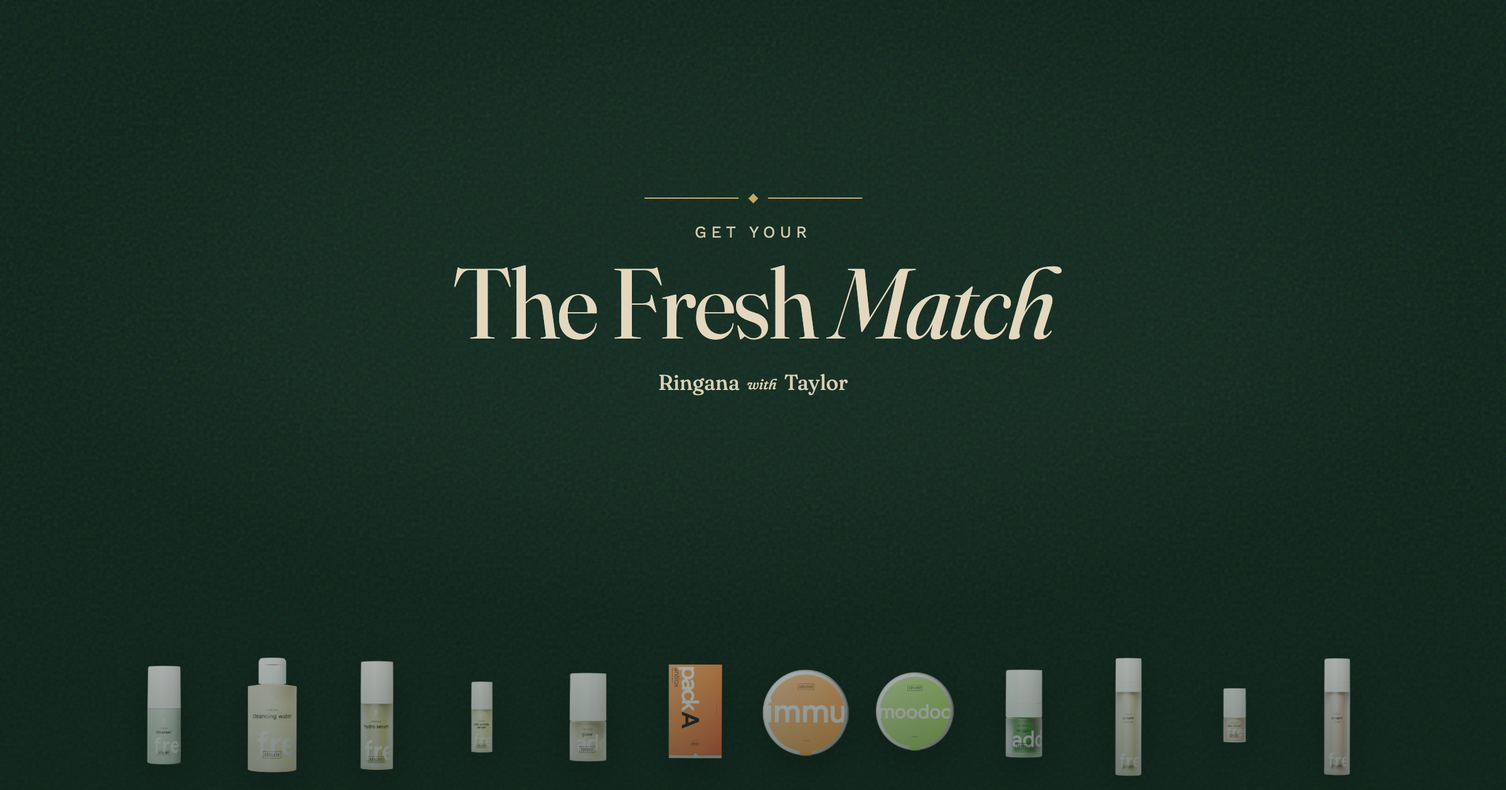
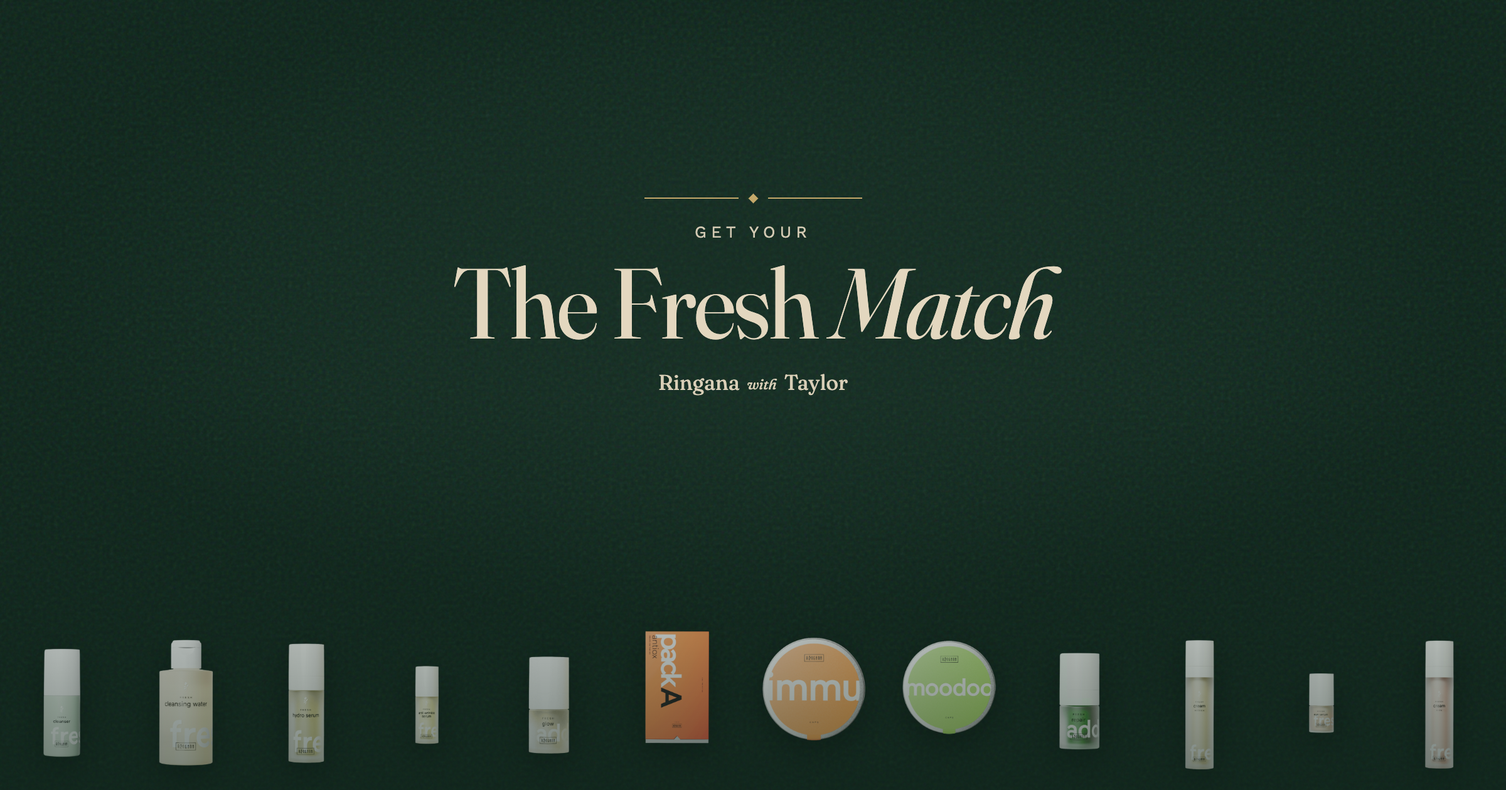
Cache-bust share image with a new filename and clearer product shelf.
Browsers and social previews were holding onto the old og-share.png.

Changed region(s): [[0.0938, 0.7738, 0.9062, 0.9905], [0.9375, 0.8048, 0.9688, 0.9905], [0.0312, 0.8048, 0.0625, 0.9595]]

diff --git a/scripts/og-share.html b/scripts/og-share.html
@@ -113,26 +113,31 @@
       left: 0;
       right: 0;
       bottom: 0;
-      height: 380px;
+      height: 420px;
       z-index: 2;
       display: flex;
       align-items: flex-end;
       justify-content: center;
-      gap: 8px;
-      padding: 0 48px 18px;
+      gap: 18px;
+      padding: 0 56px 28px;
       pointer-events: none;
     }
     .shelf img {
-      height: 300px;
+      height: 340px;
       width: auto;
-      max-width: 160px;
+      max-width: 175px;
       object-fit: contain;
       object-position: bottom center;
-      filter: drop-shadow(0 18px 28px rgba(0, 0, 0, 0.4));
+      filter: drop-shadow(0 16px 24px rgba(0, 0, 0, 0.38));
       flex: 0 0 auto;
     }
-    .shelf img.tall { height: 320px; }
-    .shelf img.short { height: 210px; max-width: 190px; }
+    /* Keep every product on the same baseline / similar visual weight */
+    .shelf img.pack,
+    .shelf img.cap {
+      height: 250px;
+      max-width: 210px;
+      margin-bottom: 8px;
+    }
     .veil {
       position: absolute;
       inset: 0;
@@ -147,18 +152,18 @@
 <body>
   <div class="card">
     <div class="shelf" aria-hidden="true">
-      <img class="tall" src="../public/products/fresh/fresh-cleanser.png" alt="" />
-      <img class="tall" src="../public/products/fresh/fresh-cleansing-water.png" alt="" />
-      <img class="tall" src="../public/products/fresh/fresh-hydro-serum.png" alt="" />
-      <img class="tall" src="../public/products/fresh/fresh-anti-wrinkle-serum.png" alt="" />
-      <img class="tall" src="../public/products/fresh/fresh-adds-glow.png" alt="" />
-      <img class="short" src="../public/products/packs/pack-antiox.png" alt="" />
-      <img class="short" src="../public/products/caps/caps-immu.png" alt="" />
-      <img class="short" src="../public/products/caps/caps-moodoo.png" alt="" />
-      <img class="tall" src="../public/products/fresh/fresh-adds-repair.png" alt="" />
-      <img class="tall" src="../public/products/fresh/fresh-cream-medium.png" alt="" />
-      <img class="tall" src="../public/products/fresh/fresh-eye-serum.png" alt="" />
-      <img class="tall" src="../public/products/fresh/fresh-cream-rich.png" alt="" />
+      <img src="../public/products/fresh/fresh-cleanser.png" alt="" />
+      <img src="../public/products/fresh/fresh-cleansing-water.png" alt="" />
+      <img src="../public/products/fresh/fresh-hydro-serum.png" alt="" />
+      <img src="../public/products/fresh/fresh-anti-wrinkle-serum.png" alt="" />
+      <img src="../public/products/fresh/fresh-adds-glow.png" alt="" />
+      <img class="pack" src="../public/products/packs/pack-antiox.png" alt="" />
+      <img class="cap" src="../public/products/caps/caps-immu.png" alt="" />
+      <img class="cap" src="../public/products/caps/caps-moodoo.png" alt="" />
+      <img src="../public/products/fresh/fresh-adds-repair.png" alt="" />
+      <img src="../public/products/fresh/fresh-cream-medium.png" alt="" />
+      <img src="../public/products/fresh/fresh-eye-serum.png" alt="" />
+      <img src="../public/products/fresh/fresh-cream-rich.png" alt="" />
     </div>
     <div class="veil"></div>
     <div class="copy">

diff --git a/index.html b/index.html
@@ -13,14 +13,14 @@
     <meta property="og:description" content="A two-minute quiz that matches you to Ringana products — with the real actives, how to use them, and links to ringana.com." />
     <meta property="og:type" content="website" />
     <meta property="og:url" content="https://tayrourke.github.io/the-fresh-match/" />
-    <meta property="og:image" content="https://tayrourke.github.io/the-fresh-match/og-share.png" />
+    <meta property="og:image" content="https://tayrourke.github.io/the-fresh-match/og-fresh-match.png" />
     <meta property="og:image:width" content="1200" />
     <meta property="og:image:height" content="630" />
-    <meta property="og:image:alt" content="Get your Fresh Match — Ringana with Taylor product collage" />
+    <meta property="og:image:alt" content="Get your Fresh Match — Ringana with Taylor" />
     <meta name="twitter:card" content="summary_large_image" />
     <meta name="twitter:title" content="Get your Fresh Match — Ringana with Taylor" />
     <meta name="twitter:description" content="A two-minute quiz that matches you to Ringana products." />
-    <meta name="twitter:image" content="https://tayrourke.github.io/the-fresh-match/og-share.png" />
+    <meta name="twitter:image" content="https://tayrourke.github.io/the-fresh-match/og-fresh-match.png" />
     <link rel="preconnect" href="https://fonts.googleapis.com" />
     <link rel="preconnect" href="https://fonts.gstatic.com" crossorigin />
     <link rel="preconnect" href="https://assets.flodesk.com" crossorigin />
